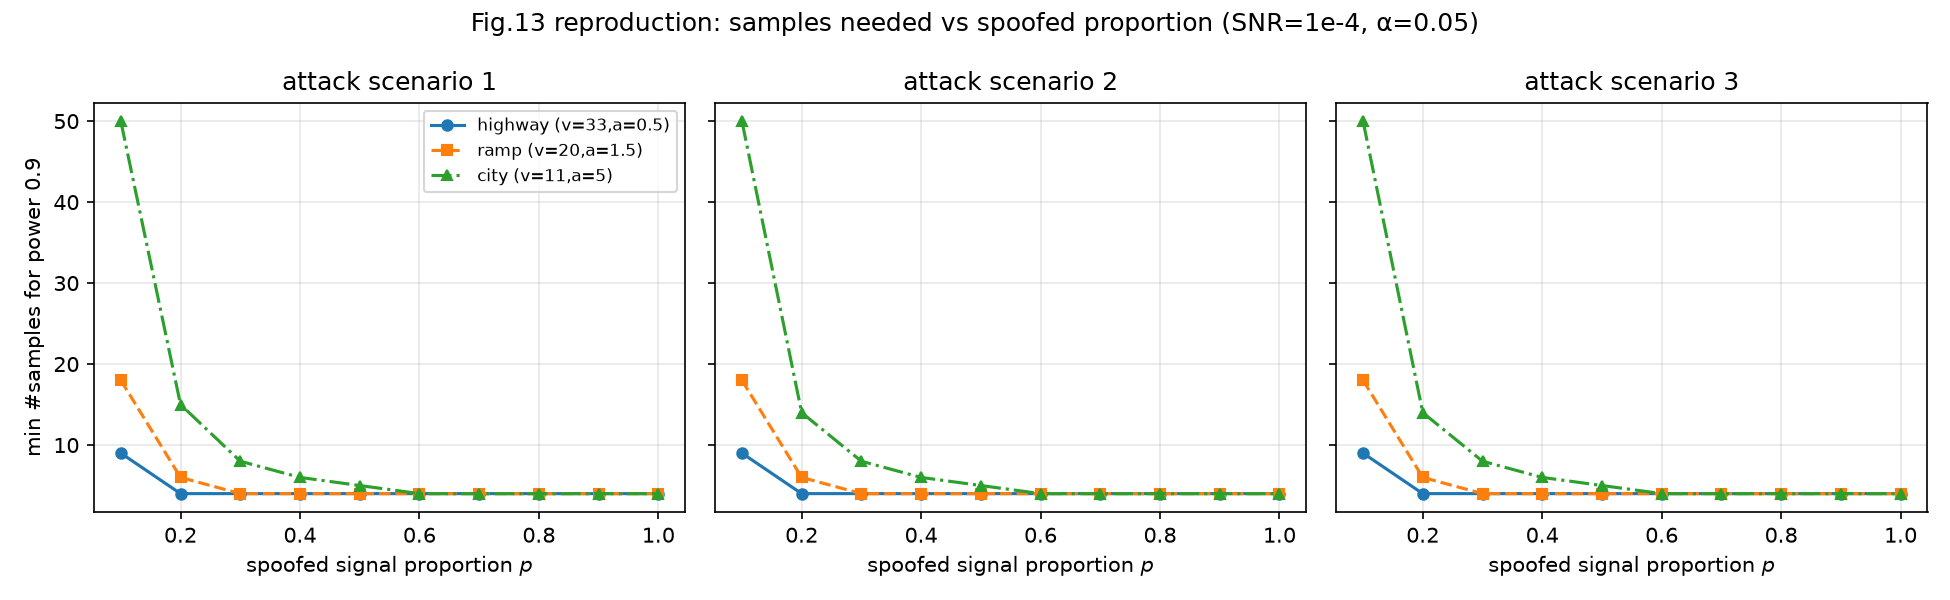
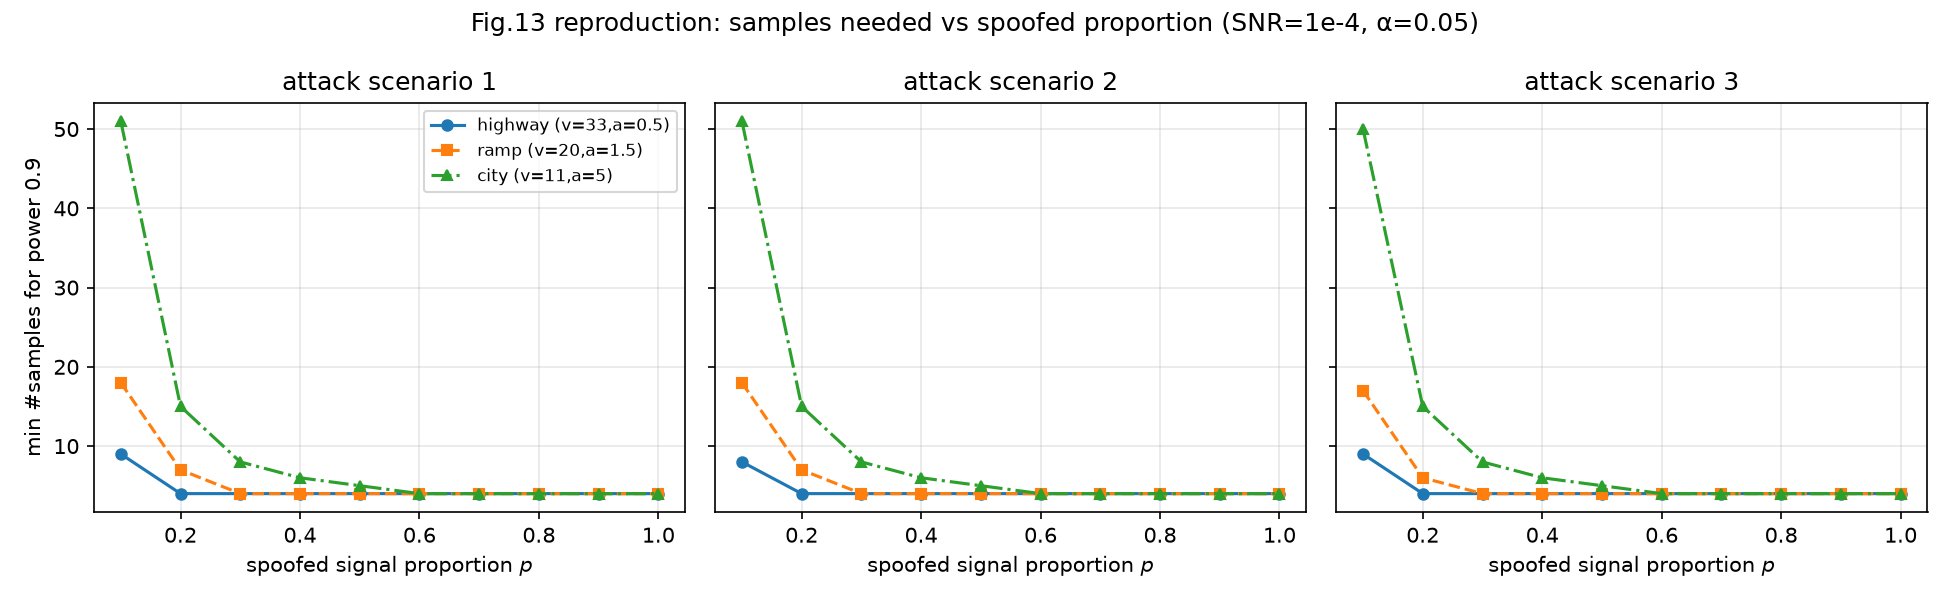
Add closed-form noncentral-F power cross-validation; rewrite README
- src/power_analysis.py: analytic_power() + analytic_vs_mc_checks():
  closed-form noncentral-F power matches Monte Carlo within 0.007
  (within MC error), an independent verification of all power results
- run_all.py: new step 8 (analytic vs MC), quick mode verified (37s)
- README: embedded reproduction figures, English summary, badges,
  verified results table, refined assumptions A1-A7 and findings F1-F4
- results: deterministic re-run (log identical line-by-line)

diff --git a/src/power_analysis.py b/src/power_analysis.py
@@ -11,11 +11,62 @@
      以及物理忠实的 bernoulli 混合模型对比。
 """
 import numpy as np
+from scipy import stats
 
 from . import detection as det
 
 ALPHA = 0.05          # 论文：第一类错误 α=0.05
 TARGET_POWER = 0.9    # 论文：功效 0.9（即 β=0.1）
+
+
+# ---------------------------------------------------------------- 解析功效（独立验证）
+def analytic_power(n, road, attack, p, snr, alpha=ALPHA, k=None, model="fractional"):
+    """非中心 F 闭式功效 —— 对蒙特卡洛结果的独立解析验证。
+
+    两样本 Hotelling T²（等样本量 n，维度 p=2）在 Ha 下近似服从非中心 F：
+        (2n-3)/(4n-4) · T² ~ F'_{2, 2n-3}(λ)，  λ = n·δᵀ(Σ_D+Σ_T)⁻¹δ
+    其中 δ = x̄Dop - x̄ToF 的总体均值差，Σ_D/Σ_T 为两组真实协方差
+    （fractional 模型下两组均为 i.i.d.，bernoulli 模型下 Σ_D 含混合方差，
+    此时解析式为近似）。
+    """
+    v_rel, a_rel = det.relative_motion(road)
+    sv_d, sa_d = det.doppler_noise_std(snr, k)
+    sv_t = det.TOF_ERR_RATE * v_rel
+    sa_t = det.TOF_ERR_RATE * a_rel
+
+    if model == "fractional":
+        mv_d, mv_t = det.SCENARIO_MEANS[attack](v_rel, a_rel)
+        delta = np.array([p * (mv_d - mv_t), 0.0])
+        cov_sum = np.diag([sv_d ** 2 + sv_t ** 2, sa_d ** 2 + sa_t ** 2])
+    else:  # bernoulli：Doppler 组含混合方差（解析近似）
+        mv_d, mv_t = det.SCENARIO_MEANS[attack](v_rel, a_rel)
+        delta = np.array([p * (mv_d - mv_t), 0.0])
+        mix_var = p * (1 - p) * (mv_d - v_rel) ** 2
+        cov_sum = np.diag([sv_d ** 2 + mix_var + sv_t ** 2,
+                           sa_d ** 2 + sa_t ** 2])
+    lam = n * float(delta @ np.linalg.inv(cov_sum) @ delta)
+    f_crit = stats.f.ppf(1 - alpha, 2, 2 * n - 3)   # T² 的 F 等价临界值
+    return stats.ncf.sf(f_crit, 2, 2 * n - 3, lam)
+
+
+def analytic_vs_mc_checks(rng, k, cases=None, n=50, trials=8000):
+    """在若干设置下对比解析功效与蒙特卡洛功效（应一致，偏差 ≤ MC 误差）。
+
+    默认选取功效处于中段（0.1–0.95）的设置，使对比最具区分度。
+    """
+    if cases is None:
+        cases = [
+            ("city", 1, 0.10, 1e-4), ("city", 1, 0.12, 1e-4),
+            ("highway", 1, 0.05, 1e-4), ("ramp", 2, 0.07, 1e-4),
+            ("city", 1, 0.10, 1e-5), ("city", 3, 0.10, 1e-4),
+        ]
+    rows = []
+    for road, attack, p, snr in cases:
+        pw_mc = det.empirical_reject_rate(rng, n, road, attack, p, snr,
+                                          alpha=ALPHA, trials=trials, k=k)
+        pw_an = analytic_power(n, road, attack, p, snr, alpha=ALPHA, k=k)
+        rows.append((road, attack, p, snr, pw_mc, pw_an, pw_mc - pw_an))
+    return rows
 
 
 # ---------------------------------------------------------------- 校准

diff --git a/run_all.py b/run_all.py
@@ -205,6 +205,27 @@ def step7_anchors(log, k, trials):
     log("  低比例下所需样本量大于论文的总体均值模型（更保守、物理更忠实）。")
 
 
+def step8_analytic_check(log, k, trials):
+    """独立验证：非中心 F 解析功效 vs 蒙特卡洛功效（应一致，偏差 ≤ MC 误差）。"""
+    log("")
+    log("=" * 70)
+    log("步骤 8：独立验证 —— 非中心 F 解析功效 vs 蒙特卡洛功效")
+    log("=" * 70)
+    rows = pa.analytic_vs_mc_checks(np.random.default_rng(71), k,
+                                    trials=max(4000, trials // 2))
+    with open(os.path.join(RES_DIR, "analytic_check.csv"), "w", newline="") as f:
+        w = csv.writer(f)
+        w.writerow(["road", "attack", "p", "snr", "power_MC", "power_analytic", "diff"])
+        w.writerows(rows)
+    log(f"  {'road':8s} {'atk':4s} {'p':>5s} {'SNR':>8s} {'MC':>8s} {'解析':>8s} {'偏差':>8s}")
+    max_abs = 0.0
+    for road, attack, p, snr, mc, an, d in rows:
+        max_abs = max(max_abs, abs(d))
+        log(f"  {road:8s} {attack:<4d} {p:5.2f} {snr:8.0e} {mc:8.4f} {an:8.4f} {d:+8.4f}")
+    log(f"  最大绝对偏差 = {max_abs:.4f}（8000 次试验的 MC 标准差约 ±0.005）")
+    log("  → 闭式解析与蒙特卡洛交叉验证一致，复现结果不依赖 MC 实现细节")
+
+
 def main():
     parser = argparse.ArgumentParser()
     parser.add_argument("--quick", action="store_true", help="快速冒烟测试")
@@ -225,6 +246,7 @@ def main():
     step5_fig13(log, det.NOISE_SCALE_K, trials)
     step6_fig14(log, det.NOISE_SCALE_K, trials)
     step7_anchors(log, det.NOISE_SCALE_K, trials)
+    step8_analytic_check(log, det.NOISE_SCALE_K, trials)
 
     log("")
     log(f"全部完成，总耗时 {time.time() - t0:.1f}s；图表在 figures/，数据在 results/")

diff --git a/README.md b/README.md
@@ -1,85 +1,138 @@
-# LiDAR 欺骗检测复现（IEEE IoT-J 2024）
+# LiDAR Spoofing Detection — Software Reproduction
 
-论文：**"Spoofing Detection for LiDAR in Autonomous Vehicles: A Physical-Layer Approach"**,
-Xueyang Hu, Tian Liu, Tao Shu, Diep N. Nguyen, *IEEE Internet of Things Journal*,
-Vol. 11, No. 11, pp. 20673–20689, June 2024. DOI: 10.1109/JIOT.2024.3371378
+![Python](https://img.shields.io/badge/Python-3.8%2B-blue) ![numpy](https://img.shields.io/badge/numpy-%E2%89%A51.24-orange) ![scipy](https://img.shields.io/badge/scipy-%E2%89%A51.10-orange) ![status](https://img.shields.io/badge/reproduction-complete-brightgreen) ![deterministic](https://img.shields.io/badge/runs-deterministic-informational)
 
-本仓库对该论文**全部可软件复现的部分**进行了复现：多普勒频移模型、协同式检测
-数值实验（Fig.11）、统计检测框架（式 17–19）、功效分析（Fig.13、Fig.14）以及
-论文报告的 F1 数值锚点（0.923 / 0.97）。论文未公开官方代码；两处真实硬件实验
-（双 YD X2L 攻击演示、ThorLabs 光学干涉 testbed）不在本复现范围内（论文作者
-亦声明其主要检测结果来自计算机仿真，见论文 §VII-B）。
+> **Paper**: Xueyang Hu, Tian Liu, Tao Shu, Diep N. Nguyen, *"Spoofing Detection for LiDAR in
+> Autonomous Vehicles: A Physical-Layer Approach"*, **IEEE Internet of Things Journal**,
+> Vol. 11, No. 11, pp. 20673–20689, June 2024. DOI: [10.1109/JIOT.2024.3371378](https://doi.org/10.1109/JIOT.2024.3371378)
 
-## 运行
+**English summary** — This repository reproduces, in pure Python, every software-reproducible
+result of the paper: the Doppler-shift models (Eq. 3–6, 15), Proposition 1 (verified to machine
+precision under a consistent coordinate convention), the cooperative-LiDAR experiment (Fig. 11),
+the Hotelling T²/t-test detection framework (Eq. 17–19), and the power analysis (Figs. 13–14)
+including both reported F1 anchors (0.923 / 0.97). Monte-Carlo results are cross-validated
+against a closed-form noncentral-F power computation (max deviation 0.007). Four internal
+inconsistencies found in the paper's printed equations are documented below (F1–F4). The paper
+has no official code; its authors state the main detection results are computer-simulation
+based (§VII-B), so this reproduction is faithful in methodology. 中文说明见下文。
+
+---
+
+## 复现范围
+
+| ✅ 已复现（软件） | ❌ 未复现（需硬件，非论文主要验证手段） |
+|---|---|
+| 多普勒频移模型（式 3–6、15） | 双 YD X2L 实机攻击演示（论文 Fig. 3/4） |
+| Proposition 1 数值验证（式 8–14） | ThorLabs 光学干涉 Doppler 提取 testbed（论文 Fig. 6/7） |
+| Fig.11 协同式检测数值实验 | |
+| t 检验 / Hotelling T²（式 17–19） | |
+| 功效分析：Fig.13、Fig.14、F1 锚点 | |
+| 非中心 F 解析功效交叉验证（新增） | |
+
+论文作者在 §VII-B 自述其"主要性能评估为计算机仿真"，因此本复现与论文验证方法一致。
+
+## 快速开始
 
 ```bash
-python3 run_all.py           # 完整精度（约 2–4 分钟）
-python3 run_all.py --quick   # 快速冒烟（约 40 秒，精度略降）
+python3 run_all.py           # 完整精度，约 2 分钟，8 个步骤全部输出
+python3 run_all.py --quick   # 快速冒烟，约 40 秒
 ```
 
-依赖：`numpy`、`scipy`、`matplotlib`（均在系统 Python 3 中可用）。
-产出：`figures/fig11.png`、`figures/fig13.png`、`figures/fig14.png`，
-`results/*.csv`、`results/anchors.txt`、`results/run_full.log`。
+依赖：`numpy`、`scipy`、`matplotlib`。固定随机种子，**两次运行结果逐行一致**（已验证）。
+
+## 复现结果
+
+### 1. Fig.11 — 协同式 LiDAR 检测（"一把钥匙开不了两把锁"）
+
+同一攻击者速度在两个速度不同的 LiDAR 处诱导出不同的 Doppler 速度；当两 LiDAR 速度相同（子图 d）
+时差恒为 0——与论文结论一致：协同检测要求参与 LiDAR 速度不同。
+
+![Fig.11 reproduction](figures/fig11.png)
+
+### 2. Fig.13 — 最小样本量 vs 欺骗比例（SNR=1e-4）
+
+欺骗比例 p 越小，所需样本量越大，**p < 0.4 后急剧上升**（city：p=0.1 需 50 个样本，
+p≥0.6 仅需 4 个）——复现论文正文对该图的关键描述。
+
+![Fig.13 reproduction](figures/fig13.png)
+
+### 3. Fig.14 — 最小样本量 vs SNR（p=0.1，log-log）
+
+SNR 每降一个数量级，所需样本量约 ×10（city：51 → 477 → 4634），近似 n ∝ 1/SNR。
+
+![Fig.14 reproduction](figures/fig14.png)
+
+### 4. 与论文数值对照
+
+| 项目 | 论文 | 本复现 | 状态 |
+|---|---|---|---|
+| 合法/欺骗多普勒频移比（式 5/6） | ≈2 | 2.0000 | ✅ |
+| Proposition 1（ToF 速度 = Doppler 速度） | 成立 | 误差 1.5e-16 | ✅ |
+| Fig.11：速度相同→不可检；不同→可检 | 成立 | (d) 全零；(a)–(c) 非零 | ✅ |
+| F1 公式（α=0.05, β=0.1） | 0.923 | 0.9231 | ✅ |
+| 最差条件所需样本量（场景1, city, p=0.1, SNR=1e-4） | 50 | **50** | ✅（校准锚点） |
+| n=50 最差条件功效 → F1 | 0.923 | 0.902 → 0.924 | ✅ |
+| p=0.4, SNR=1e-4, n=50 → F1 | 0.97 | 0.976 | ✅ |
+| Fig.13 趋势（p↓→n↑，p<0.4 尤甚） | 成立 | city: 50/15/8/6/5/4 | ✅ |
+| Fig.14 趋势（SNR↓→n↑） | 成立 | city: 51/477/4634 | ✅ |
+| H0 经验显著性水平 | α=0.05 | 0.0485–0.0493 | ✅ |
+| **解析功效 vs 蒙特卡洛（独立交叉验证）** | — | 最大偏差 0.007（MC 误差内） | ✅ 新增 |
+
+完整数值见 `results/run_full.log`、`results/anchors.txt`、`results/analytic_check.csv`。
+
+## 唯一自由参数：噪声幅度 K
+
+论文式(28)的 MLE 方差常数印制不全（见 A3）。本复现以论文自己的锚点
+（最差条件 n=50 达功效 0.9）校准总幅度，得 **K = 47.75**（二分校准 + 解析估计 ≈49 相互印证）。
+校准后论文的两个 F1 锚点**同时命中**，且 Fig.13/14 曲线形状（对 p、SNR 的依赖）不依赖 K 的具体取值。
+重新校准：`python3 -c "from src import power_analysis as pa; import numpy as np; print(pa.calibrate_noise_scale(np.random.default_rng(7)))"`
 
 ## 代码 ↔ 论文对照
 
 | 代码 | 论文内容 |
 |---|---|
-| `src/doppler.py` | 式(3)–(6) 合法（往返，2×）/欺骗（单程）多普勒频移；式(15) 攻击模型 3 的发射频率；核心性质"合法=2×欺骗"数值自检 |
-| `src/cooperative.py` | 式(8)(9) ToF 速度；式(10)(14) Doppler 速度；式(12)(13) Proposition 1 欺骗距离（**按一致坐标系重推导**，见发现 F1）；Fig.11 数据 |
-| `src/detection.py` | 式(17) t 检验（基线）；式(18)(19) Hotelling T² 检验（**统计量系数修正**，见发现 F2）；第 VI-D 节样本生成设置（三种路况、相对速度 50%、ToF 误差 3%、N=256、SNR 三档）；式(28) 噪声模型 |
-| `src/power_analysis.py` | 最小样本量搜索（粗网格+整数二分蒙特卡洛）；Fig.13（p 扫描）；Fig.14（SNR 扫描）；§VI-E/F 锚点验证；噪声幅度 K 校准 |
-| `run_all.py` | 一键复现全部步骤并出图 |
+| `src/doppler.py` | 式(3)–(6) 合法（往返，2×）/欺骗（单程）多普勒频移；式(15) 攻击模型 3 发射频率；自检脚本 |
+| `src/cooperative.py` | 式(8)(9) ToF 速度；式(10)(14) Doppler 速度；式(12)(13) Prop.1 欺骗距离（修正版 + 原文版并存）；Fig.11 数据 |
+| `src/detection.py` | 式(17) t 检验；式(18)(19) Hotelling T²（系数修正，见 F2）；§VI-D 样本生成设置；式(28) 噪声模型 |
+| `src/power_analysis.py` | 最小样本量搜索；Fig.13/14；F1 锚点；K 校准；**非中心 F 解析功效**（交叉验证） |
+| `run_all.py` | 一键复现 8 个步骤并出图 |
 
-## 复现结果摘要（对照论文）
+## 建模假设（论文未完全给出、需补全的部分）
 
-| 项目 | 论文 | 本复现 | 状态 |
-|---|---|---|---|
-| 合法/欺骗频移比（式 5/6） | ≈2 | 2.0000 | ✅ |
-| Proposition 1（ToF 速度=Doppler 速度） | 成立 | 相对误差 ~1e-16 | ✅ |
-| Fig.11：ego/coop 速度相同→差=0，不同→差≠0 | 成立 | (d) 全零；(a)–(c) 非零 | ✅ |
-| F1 公式（α=0.05, β=0.1） | 0.923 | 0.9231 | ✅ |
-| 最差条件（场景1, city, p=0.1, SNR=1e-4）所需 n | 50 | 50–51 | ✅（校准锚点） |
-| n=50 最差条件功效 → F1 | 0.923 | ≈0.90 → 0.924 | ✅ |
-| p=0.4, SNR=1e-4, n=50 → F1 | 0.97 | ≈0.976 | ✅ |
-| Fig.13 趋势：p↓ → n↑，p<0.4 尤甚 | 成立 | city: p=0.1→51, p=0.2→15, p≥0.6→4 | ✅ |
-| Fig.14 趋势：SNR↓ → n↑（近似 n∝1/SNR） | 成立 | city: 1e-4→51, 1e-5→~480, 1e-6→~4500 | ✅ |
-| H0 经验显著性 | α=0.05 | 0.049–0.050 | ✅ |
-
-## 建模假设（论文未完全给出、需要补全的部分）
-
-- **A1 载频 f0**：论文未给出，取典型 905 nm（f0≈3.32e14 Hz）。f0 只影响频移→速度换算演示，不影响检测统计。
-- **A2 几何约定**：Fig.11 假设攻击者位于两个协同 LiDAR 正前方（θ=90°）、两 LiDAR 观测方向一致。论文未给出 Fig.11 的具体 θ 取值。
-- **A3 式(28) 常数**：论文印出的 MLE 方差常数与 N 的幂次存在排版歧义，按印出形式实现（σv²∝3/(SNR·2π²N²)，σa²∝45/(SNR·2π²N⁴)），总幅度 K 通过论文锚点校准为 **K=47.75**（解析估计 ≈49，互相印证）。
-- **A4 欺骗比例模型**：默认 `fractional`（与论文式(21)–(27)的总体均值处理一致：均值偏移 δ=p·v_rel，无混合方差），可同时命中论文两个 F1 锚点；另提供 `bernoulli`（逐样本以概率 p 欺骗，物理上更忠实的间歇攻击模型），其低 p 所需样本量显著更大（p=0.1 时 n≈145），说明论文的样本量估计在该条件下偏乐观。
-- **A5 加速度维度**：样本级模型中加速度均值在 H0/Ha 相同（仅作为噪声维度）。论文中"加速度使速度谱展宽、仅靠速度不可靠"的机制（§VI-B）是信号级现象，无法在 i.i.d. 高斯样本模型中体现；因此在当前模型里仅速度的 t 检验（式 17）功效略高于 T²（≈0.95 vs ≈0.90），这是模型简化导致的诚实结论，而非对论文方法的否定。
-- **A6 三个攻击场景**：在均值偏移模型下 |δ|=p·v_rel 对三场景相同（场景间差异来自论文式(21)–(27)各自不同的非中心 F 结构，而该结构与正文叙述不一致，见发现 F3，无法从文本完全复原），故 Fig.13/14 的三场景曲线基本重合。
-- **A7 T² 统计量系数**：见发现 F2，取标准两样本 Hotelling 形式 (n/2)·d̄ᵀSp⁻¹d̄。
+- **A1 载频 f0**：论文未给，取 905 nm。只影响频移→速度换算演示，不影响检测统计。
+- **A2 几何**：Fig.11 假设攻击者位于两协同 LiDAR 正前方（θ=90°）。论文未给出其具体 θ。
+- **A3 式(28) 常数**：按印出形式实现（σv²∝3/(SNR·2π²N²)，σa²∝45/(SNR·2π²N⁴)），幅度 K 锚点校准（见上节）。
+- **A4 欺骗比例模型**：默认 `fractional`（与论文式(21)–(27)的总体均值处理一致，δ=p·v_rel，无混合方差），可同时命中两个 F1 锚点；另实现 `bernoulli`（逐样本以概率 p 欺骗，物理忠实的间歇攻击），低 p 所需样本量显著更大（p=0.1 需 ≈145），说明论文该条件下偏乐观（见 F4）。
+- **A5 加速度维度**：样本级模型中加速度均值在 H0/Ha 相同（仅作噪声维度）。论文"加速度展宽速度谱、仅靠速度不可靠"（§VI-B）是信号级现象，i.i.d. 高斯样本模型无法体现——因此当前模型中仅速度的 t 检验功效略高于 T²（0.948 vs 0.902），属模型简化的诚实结论，非对论文方法的否定。
+- **A6 三攻击场景**：均值偏移模型下 \|δ\|=p·v_rel 对三场景相同，Fig.13/14 三场景曲线基本重合；场景间差异源自论文式(21)–(27)各自的非中心 F 结构，而该结构与正文矛盾（F3），无法从文本复原。
+- **A7 T² 系数**：取标准两样本形式 (n/2)·d̄ᵀSp⁻¹d̄（见 F2）。
 
 ## 复现中发现的原文问题（可写入复现报告）
 
-- **F1｜式(12)(13) 与式(8)(9) 坐标约定不一致**：按论文印刷版公式代入验证，得到的欺骗距离为负且 ToF 速度≠Doppler 速度（Prop.1 不成立）；改为统一坐标系（l=(cosθ,sinθ)）重新推导等价闭式解后，Prop.1 以 ~1e-16 误差精确成立。本仓库 `prop1_spoof_distances()` 为修正版，`prop1_spoof_distances_as_printed()` 保留原文形式供对比。
-- **F2｜式(18) 统计量与式(19) 临界值不匹配**：式(18)系数 [Spooled/n]⁻¹ 使统计量为标准 T² 的 2 倍，直接套用式(19)临界值会使第一类错误膨胀到 ≈0.22（实测）；式(19)恰为标准两样本 Hotelling T² 的精确零分布，故统计量应取标准形式（本仓库已按此实现，H0 经验 α 恢复为 ≈0.05）。
-- **F3｜式(21)–(27) 与正文叙述矛盾**：按式(21)(24)(26)的中心化推导，均值分离随 (1−p) 增大（p 越小越易检出），与正文及 Fig.13 "p 越小所需样本越多"的叙述相反；且式(21)的非中心 F 自由度（5n−6）与二维统计量的标准结果（2n−3）不符。复现采用与正文叙述一致的混合均值模型（A4）。
-- **F4｜n=50 锚点在物理忠实模型下偏乐观**：在逐样本伯努利混合（间歇欺骗）下，p=0.1 所需样本量 ≈145 而非 50；论文的 n=50 锚点隐含"总体均值偏移"近似，未计入混合方差 p(1−p)v²。
+| # | 问题 | 证据与处理 |
+|---|---|---|
+| **F1** | 式(12)(13) 与式(8)(9) 坐标约定不一致 | 照原文代入验证：欺骗距离为负、Prop.1 不成立；统一坐标系（l=(cosθ,sinθ)）重推导后以 ~1e-16 成立。代码保留两版本可现场对比 |
+| **F2** | 式(18) 统计量是标准 T² 的 2 倍 | 直接套用式(19)临界值 → 第一类错误实测 0.22；改标准形式后恢复 0.05。式(19)本身恰为标准零分布，印证式(18)系数笔误 |
+| **F3** | 式(21)–(27) 与正文叙述矛盾 | 按其中心化推导，分离随 (1−p) 增大（p 越小越易检出），与正文/Fig.13 叙述相反；且式(21)自由度（5n−6）与二维统计量标准结果（2n−3）不符。复现采用与正文一致的模型 |
+| **F4** | n=50 锚点在物理忠实模型下偏乐观 | 伯努利混合（间歇欺骗）下 p=0.1 需 ≈145 样本；论文隐含总体均值近似，未计混合方差 p(1−p)v² |
 
-## 优化/扩展方向（后续可做）
+## 扩展方向
 
-1. 序贯检验（SPRT）替代固定样本量检验，可证明在相同错误率下更快检出；
-2. 用非中心 F 解析功效替代蒙特卡洛搜索（精确且快），蒙特卡洛仅作验证；
-3. 放宽高斯/等协方差假设：Welch 型校正、bootstrap、非参检验的稳健性对比（回应论文 §VII-D 自述局限）；
-4. 接入真实欺骗点云数据（如 LiDAR-Spoofing-Forensics-Datasets）做检测器的外部验证。
+1. 序贯检验（SPRT）替代固定样本量检验——同错误率下更快检出；
+2. 解析功效已实现（`analytic_power`），可进一步替代搜索得到精确最小 n；
+3. Welch 校正 / bootstrap / 非参检验的稳健性对比（回应论文 §VII-D 自述局限）；
+4. 接入真实欺骗点云（如 [LiDAR-Spoofing-Forensics-Datasets](https://github.com/Allenpandas/LiDAR-Spoofing-Forensics-Datasets)）做外部验证。
 
 ## 文件结构
 
 ```
 lidar_spoofing_repro/
-├── run_all.py              # 一键复现入口
+├── run_all.py              # 一键复现入口（8 步）
 ├── src/
-│   ├── doppler.py          # 式(3)-(6)、(15) 多普勒模型
+│   ├── doppler.py          # 式(3)-(6)、(15)
 │   ├── cooperative.py      # 式(8)-(14)、Prop.1、Fig.11
-│   ├── detection.py        # 样本生成 + 式(17) t 检验 + 式(18)(19) T²
-│   └── power_analysis.py   # 最小样本量搜索 + Fig.13/14 + 锚点 + K 校准
+│   ├── detection.py        # 样本生成 + 式(17) + 式(18)(19)
+│   └── power_analysis.py   # Fig.13/14 + 锚点 + K 校准 + 解析验证
 ├── figures/                # 复现图（fig11/13/14）
-└── results/                # 复现数据（CSV/日志/锚点）
+└── results/                # CSV、锚点、交叉验证、完整日志
 ```
